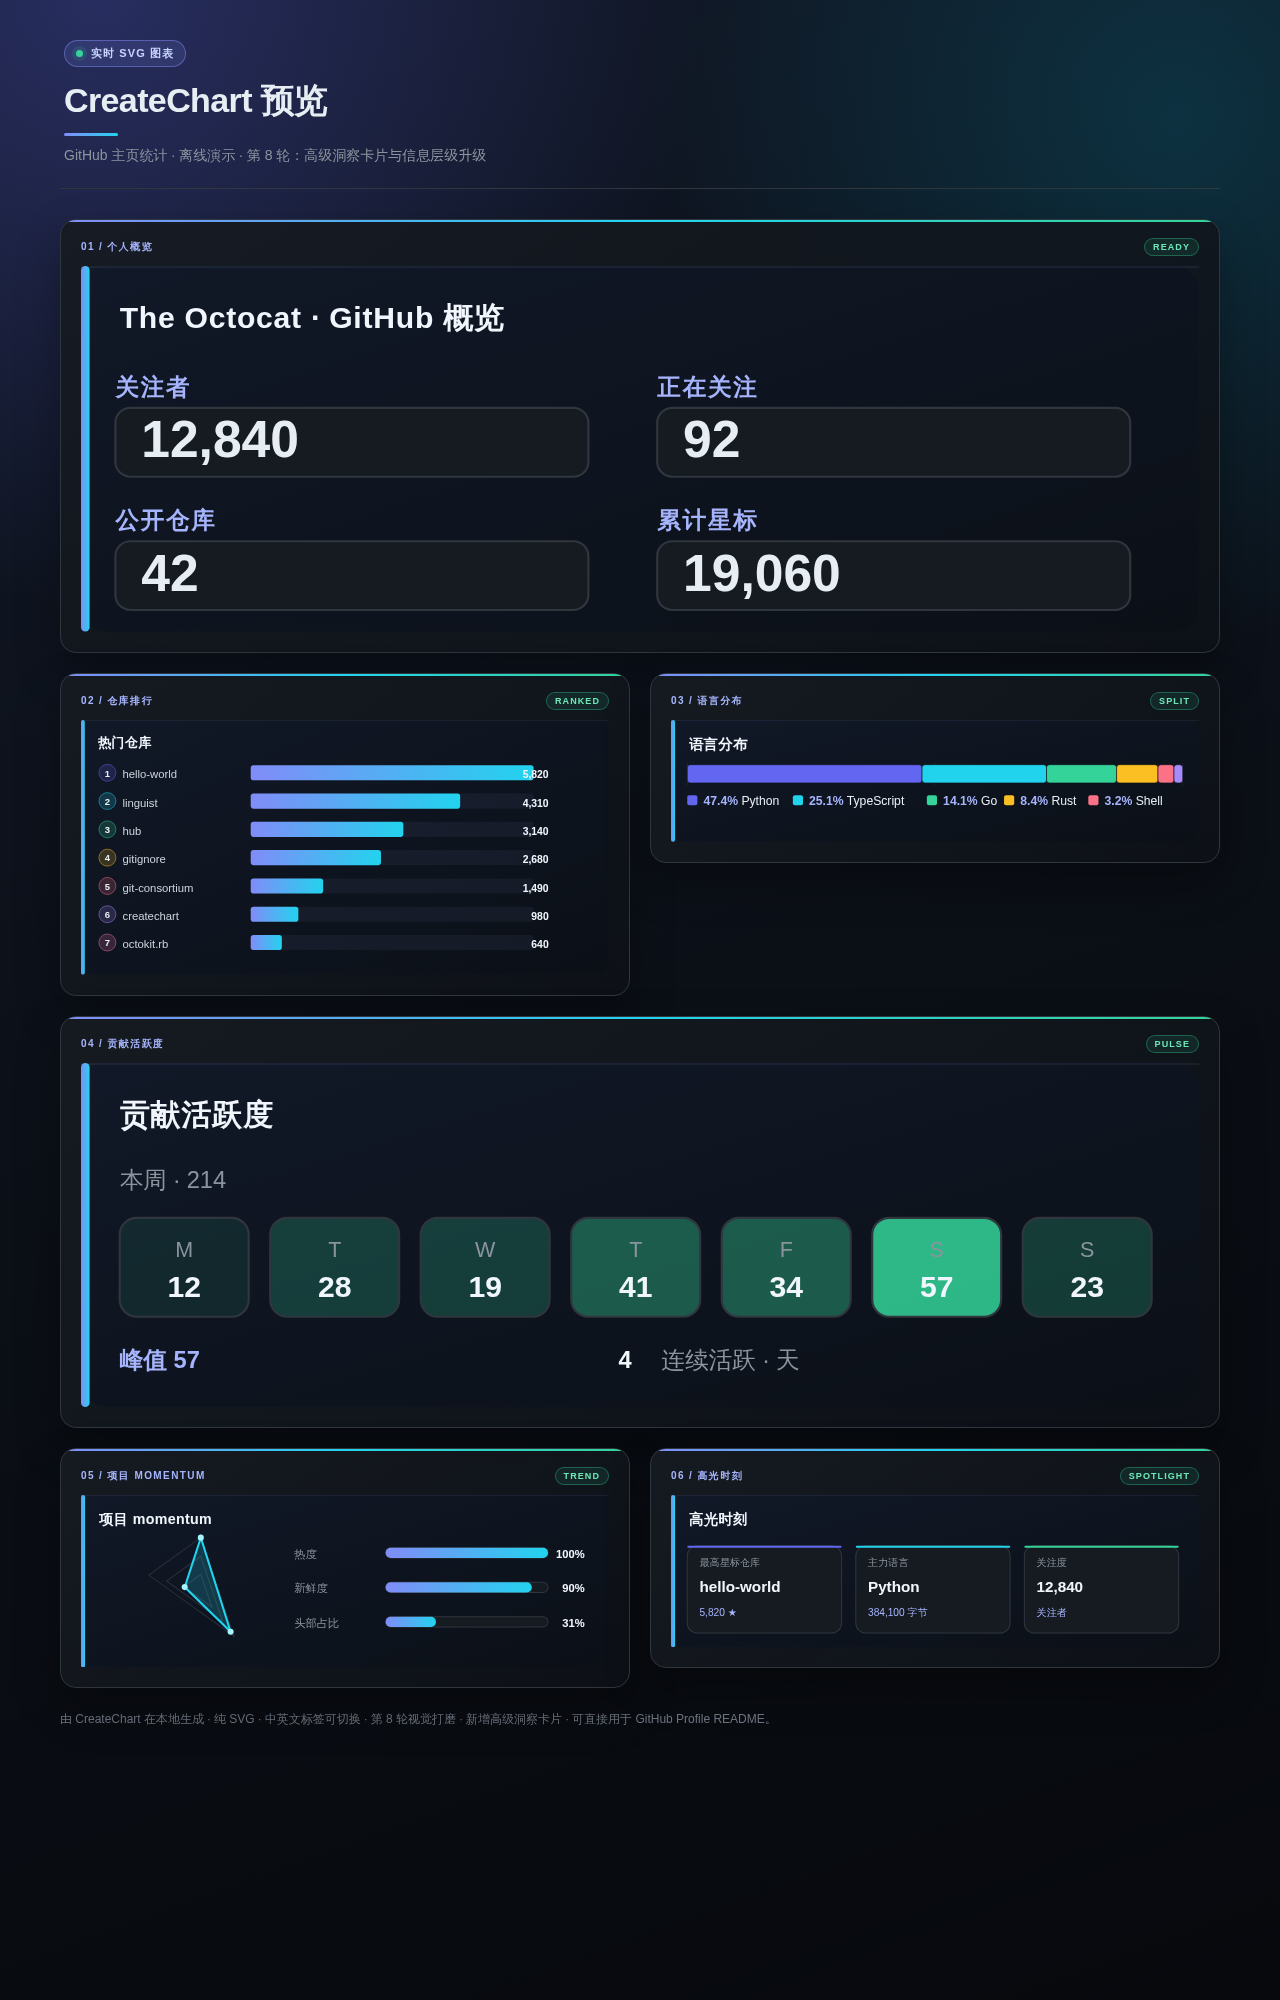
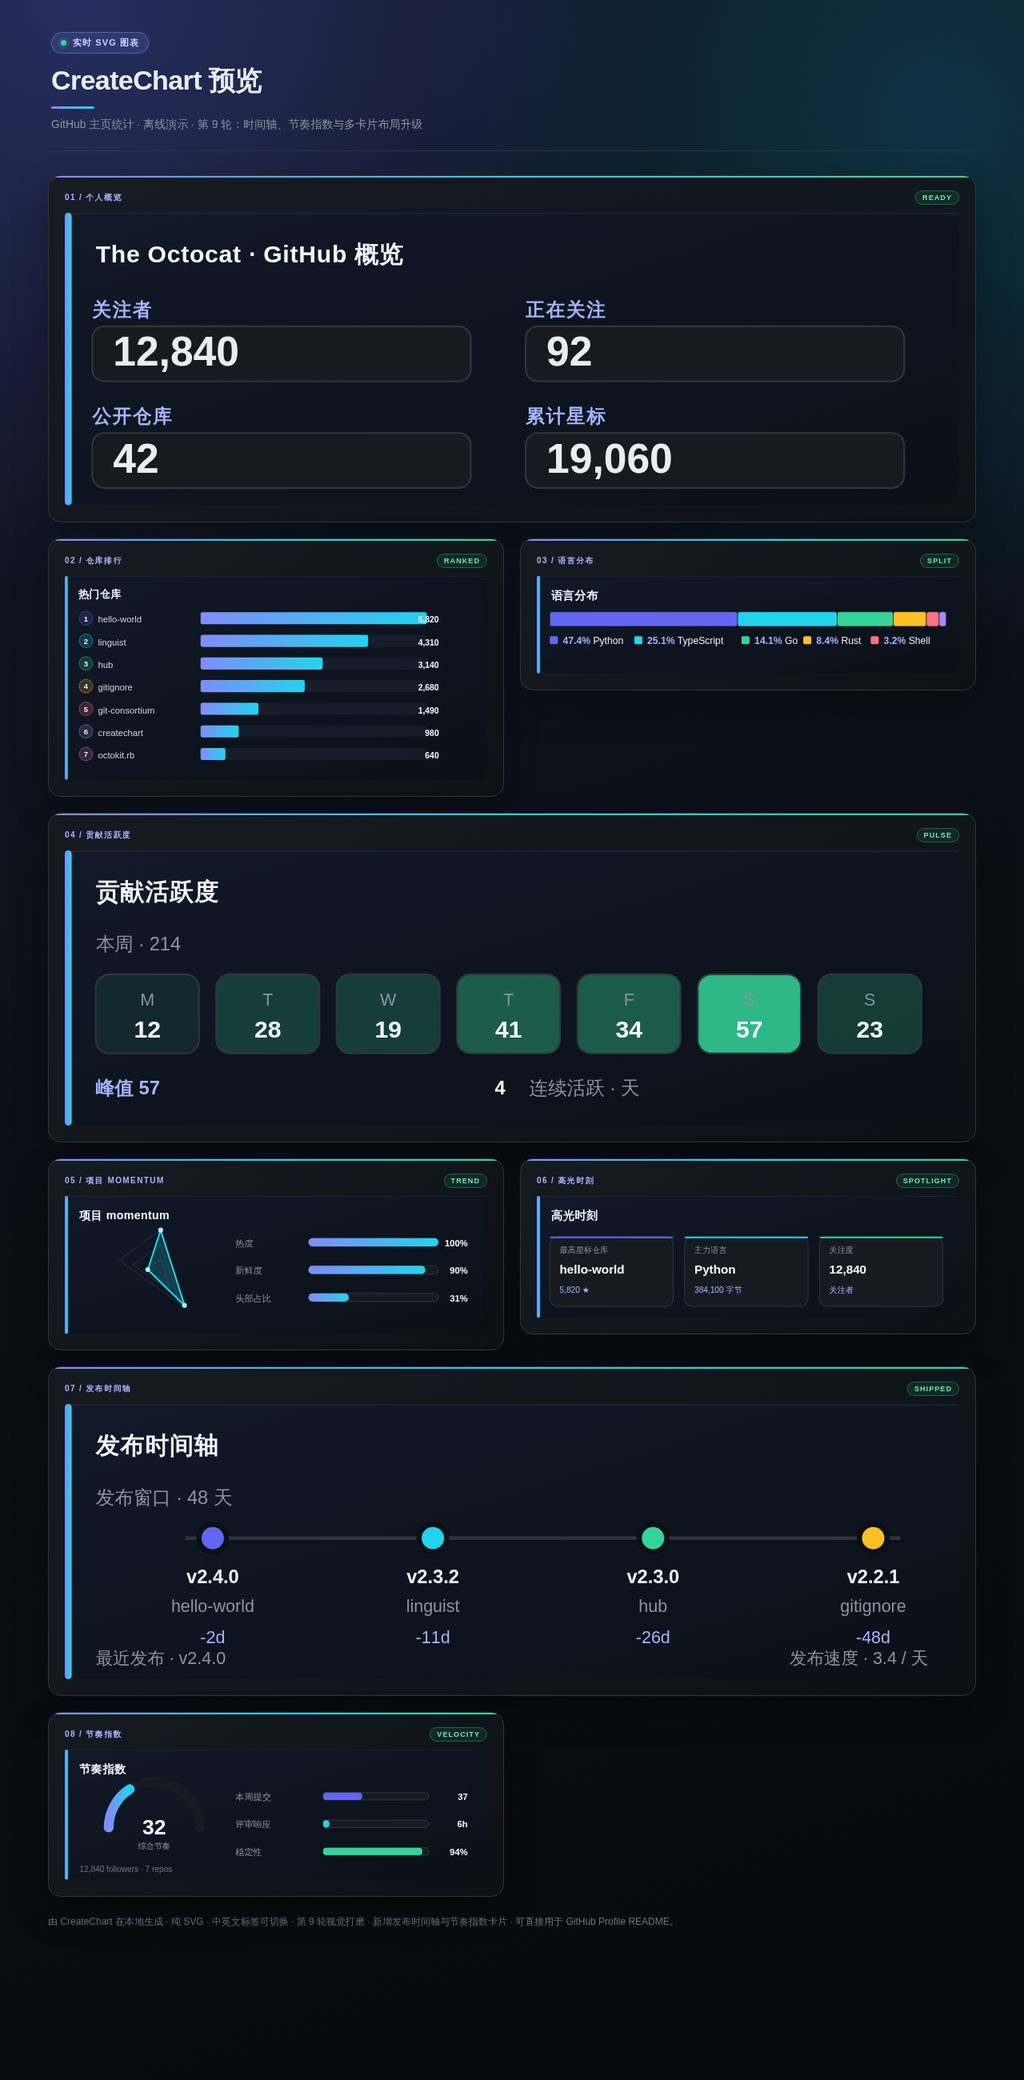
feat(charts): 新增发布时间轴与节奏指数卡片

diff --git a/createchart/charts.py b/createchart/charts.py
@@ -26,11 +26,11 @@ LANGUAGE_LABELS = {
         "preview_title": "CreateChart · 预览",
         "preview_eyebrow": "实时 SVG 图表",
         "preview_heading": "CreateChart 预览",
-        "preview_subtitle": "GitHub 主页统计 · 离线演示 · 第 8 轮：高级洞察卡片与信息层级升级",
+        "preview_subtitle": "GitHub 主页统计 · 离线演示 · 第 9 轮：时间轴、节奏指数与多卡片布局升级",
         "profile_section": "01 / 个人概览",
         "repos_section": "02 / 仓库排行",
         "languages_section": "03 / 语言分布",
-        "preview_footer": "由 CreateChart 在本地生成 · 纯 SVG · 中英文标签可切换 · 第 8 轮视觉打磨 · 新增高级洞察卡片 · 可直接用于 GitHub Profile README。",
+        "preview_footer": "由 CreateChart 在本地生成 · 纯 SVG · 中英文标签可切换 · 第 9 轮视觉打磨 · 新增发布时间轴与节奏指数卡片 · 可直接用于 GitHub Profile README。",
         "activity_title": "贡献活跃度",
         "activity_section": "04 / 贡献活跃度",
         "activity_peak": "峰值",
@@ -47,6 +47,17 @@ LANGUAGE_LABELS = {
         "highlight_dominant": "主力语言",
         "highlight_profile": "关注度",
         "days": "天",
+        "release_title": "发布时间轴",
+        "release_section": "07 / 发布时间轴",
+        "release_latest": "最近发布",
+        "release_window": "发布窗口",
+        "release_velocity": "发布速度",
+        "cadence_title": "节奏指数",
+        "cadence_section": "08 / 节奏指数",
+        "cadence_week": "本周提交",
+        "cadence_review": "评审响应",
+        "cadence_stability": "稳定性",
+        "cadence_score": "综合节奏",
     },
     "en": {
         "profile_title": "GitHub overview",
@@ -62,11 +73,11 @@ LANGUAGE_LABELS = {
         "preview_title": "CreateChart · Preview",
         "preview_eyebrow": "Live SVG charts",
         "preview_heading": "CreateChart preview",
-        "preview_subtitle": "GitHub profile statistics · offline demo · eighth pass with advanced insight cards and clearer hierarchy",
+        "preview_subtitle": "GitHub profile statistics · offline demo · ninth pass with release timeline, cadence index, and richer card layout",
         "profile_section": "01 / Profile",
         "repos_section": "02 / Repositories",
         "languages_section": "03 / Languages",
-        "preview_footer": "Generated locally by CreateChart · pure SVG · switchable zh/en labels · eighth polish pass with advanced insight cards · ready for GitHub Profile README.",
+        "preview_footer": "Generated locally by CreateChart · pure SVG · switchable zh/en labels · ninth polish pass with release timeline and cadence index cards · ready for GitHub Profile README.",
         "activity_title": "Contribution activity",
         "activity_section": "04 / Activity",
         "activity_peak": "Peak",
@@ -83,6 +94,17 @@ LANGUAGE_LABELS = {
         "highlight_dominant": "Dominant language",
         "highlight_profile": "Attention",
         "days": "days",
+        "release_title": "Release timeline",
+        "release_section": "07 / Releases",
+        "release_latest": "Latest",
+        "release_window": "Window",
+        "release_velocity": "Velocity",
+        "cadence_title": "Cadence index",
+        "cadence_section": "08 / Cadence",
+        "cadence_week": "Commits this week",
+        "cadence_review": "Review response",
+        "cadence_stability": "Stability",
+        "cadence_score": "Cadence score",
     },
 }
 
@@ -323,6 +345,59 @@ def highlight_cards(user: Dict[str, object], repos: List[Dict[str, object]], lan
     return _svg_footer(parts)
 
 
+def release_timeline(repos: List[Dict[str, object]], lang: str = DEFAULT_LANG) -> str:
+    """Build a playful release timeline card derived from repository order."""
+    top = sorted(repos, key=lambda repo: int(repo.get("stargazers_count") or 0), reverse=True)[:4]
+    versions = ["v2.4.0", "v2.3.2", "v2.3.0", "v2.2.1"]
+    days_ago = [2, 11, 26, 48]
+    parts = _svg_header(t("release_title", lang), 520, 160)
+    parts.append(f'<text x="18" y="58" fill="#8b949e" font-family="-apple-system, BlinkMacSystemFont, Segoe UI, sans-serif" font-size="11">{escape(t("release_window", lang))} · 48 {escape(t("days", lang))}</text>')
+    parts.append('<line x1="70" y1="78" x2="486" y2="78" stroke="#30363d" stroke-width="2"/>')
+    for idx in range(4):
+        x = 86 + idx * 128
+        color = PALETTE[idx % len(PALETTE)]
+        parts.append(f'<circle cx="{x}" cy="78" r="8" fill="{color}" stroke="#0b1017" stroke-width="3"/>')
+        repo_name = str(top[idx].get("name", "-"))[:15] if idx < len(top) else "-"
+        parts.append(f'<text x="{x}" y="104" text-anchor="middle" fill="#e6edf3" font-family="-apple-system, BlinkMacSystemFont, Segoe UI, sans-serif" font-size="11" font-weight="700">{escape(versions[idx])}</text>')
+        parts.append(f'<text x="{x}" y="121" text-anchor="middle" fill="#8b949e" font-family="-apple-system, BlinkMacSystemFont, Segoe UI, sans-serif" font-size="10">{escape(repo_name)}</text>')
+        parts.append(f'<text x="{x}" y="139" text-anchor="middle" fill="#a5b4fc" font-family="-apple-system, BlinkMacSystemFont, Segoe UI, sans-serif" font-size="10">-{days_ago[idx]}d</text>')
+    parts.append(f'<text x="18" y="151" fill="#8b949e" font-family="-apple-system, BlinkMacSystemFont, Segoe UI, sans-serif" font-size="10">{escape(t("release_latest", lang))} · {escape(versions[0])}</text>')
+    parts.append(f'<text x="502" y="151" text-anchor="end" fill="#8b949e" font-family="-apple-system, BlinkMacSystemFont, Segoe UI, sans-serif" font-size="10">{escape(t("release_velocity", lang))} · 3.4 / {escape(t("days", lang))}</text>')
+    return _svg_footer(parts)
+
+
+def cadence_index(user: Dict[str, object], repos: List[Dict[str, object]], lang: str = DEFAULT_LANG) -> str:
+    """Build a gauge-like cadence card with three derived engineering signals."""
+    commits = 37
+    review_hours = 6
+    stability = 94
+    followers = int(user.get("followers") or 0)
+    score = min(99, round(commits * 0.8 + review_hours * 1.4 + stability * 0.28) // 2)
+    parts = _svg_header(t("cadence_title", lang), 520, 160)
+    cx, cy, radius = 110, 96, 56
+    import math
+    start, end = math.pi, 2 * math.pi
+    parts.append(f'<path d="M {cx + radius * math.cos(start):.2f} {cy + radius * math.sin(start):.2f} A {radius} {radius} 0 0 1 {cx + radius * math.cos(end):.2f} {cy + radius * math.sin(end):.2f}" fill="none" stroke="#161b22" stroke-width="12" stroke-linecap="round"/>')
+    angle = start + (end - start) * min(1, score / 100)
+    parts.append(f'<path d="M {cx + radius * math.cos(start):.2f} {cy + radius * math.sin(start):.2f} A {radius} {radius} 0 0 1 {cx + radius * math.cos(angle):.2f} {cy + radius * math.sin(angle):.2f}" fill="none" stroke="url(#accent)" stroke-width="12" stroke-linecap="round"/>')
+    parts.append(f'<text x="{cx}" y="{cy + 8}" text-anchor="middle" fill="#f0f6fc" font-family="-apple-system, BlinkMacSystemFont, Segoe UI, sans-serif" font-size="26" font-weight="700" font-variant-numeric="tabular-nums">{score}</text>')
+    parts.append(f'<text x="{cx}" y="{cy + 26}" text-anchor="middle" fill="#8b949e" font-family="-apple-system, BlinkMacSystemFont, Segoe UI, sans-serif" font-size="10">{escape(t("cadence_score", lang))}</text>')
+    metrics = [
+        (t("cadence_week", lang), commits, ""),
+        (t("cadence_review", lang), review_hours, "h"),
+        (t("cadence_stability", lang), stability, "%"),
+    ]
+    for idx, (label, value, suffix) in enumerate(metrics):
+        y = 62 + idx * 34
+        parts.append(f'<text x="210" y="{y}" fill="#8b949e" font-family="-apple-system, BlinkMacSystemFont, Segoe UI, sans-serif" font-size="11">{escape(label)}</text>')
+        parts.append(f'<rect x="318" y="{y - 9}" width="130" height="9" rx="4" fill="#161b22" stroke="#30363d"/>')
+        ratio = min(100, value if value <= 100 else min(100, value * 2))
+        parts.append(f'<rect x="318" y="{y - 9}" width="{ratio * 1.3:.2f}" height="9" rx="4" fill="{PALETTE[idx]}"/>')
+        parts.append(f'<text x="496" y="{y}" text-anchor="end" fill="#f0f6fc" font-family="-apple-system, BlinkMacSystemFont, Segoe UI, sans-serif" font-size="11" font-weight="700" font-variant-numeric="tabular-nums">{value}{suffix}</text>')
+    parts.append(f'<text x="18" y="151" fill="#6e7681" font-family="-apple-system, BlinkMacSystemFont, Segoe UI, sans-serif" font-size="10">{followers:,} followers · {len(repos)} repos</text>')
+    return _svg_footer(parts)
+
+
 def aggregate_languages(repos: Iterable[Dict[str, object]], languages_by_repo: Dict[str, Dict[str, int]]) -> Dict[str, int]:
     """Sum language bytes across repositories."""
     total: Counter[str] = Counter()
@@ -370,6 +445,8 @@ def demo_charts(lang: str = DEFAULT_LANG) -> Dict[str, str]:
         "activity": contribution_activity(lang=lang),
         "momentum": project_momentum(user, repos, lang=lang),
         "highlights": highlight_cards(user, repos, languages, lang=lang),
+        "releases": release_timeline(repos, lang=lang),
+        "cadence": cadence_index(user, repos, lang=lang),
     }
 
 
@@ -465,6 +542,8 @@ def preview_html(charts: Dict[str, str], lang: str = DEFAULT_LANG) -> str:
       {card("activity", "activity_section", "PULSE", wide=True)}
       {card("momentum", "momentum_section", "TREND")}
       {card("highlights", "highlights_section", "SPOTLIGHT")}
+      {card("releases", "release_section", "SHIPPED", wide=True)}
+      {card("cadence", "cadence_section", "VELOCITY")}
     </section>
     <footer>{escape(t("preview_footer", lang))}</footer>
   </main>

diff --git a/createchart/cli.py b/createchart/cli.py
@@ -14,10 +14,12 @@ from .charts import (
     demo_charts,
     highlight_cards,
     language_chart,
+    cadence_index,
     preview_html,
     profile_summary,
     project_momentum,
     repo_bars,
+    release_timeline,
 )
 from .github_client import GitHubClient
 
@@ -45,9 +47,9 @@ def main(argv: list[str] | None = None) -> int:
             (output / f"{name}.svg").write_text(svg, encoding="utf-8")
         if args.preview_html:
             (output / "preview.html").write_text(preview_html(charts, lang=args.lang), encoding="utf-8")
-            print(f"Wrote 6 demo charts and preview.html to {output.resolve()}")
+            print(f"Wrote 8 demo charts and preview.html to {output.resolve()}")
         else:
-            print(f"Wrote 6 demo charts to {output.resolve()}")
+            print(f"Wrote 8 demo charts to {output.resolve()}")
         return 0
 
     if not args.username:
@@ -83,8 +85,10 @@ def main(argv: list[str] | None = None) -> int:
     (output / "activity.svg").write_text(contribution_activity(lang=args.lang), encoding="utf-8")
     (output / "momentum.svg").write_text(project_momentum(user, repos, lang=args.lang), encoding="utf-8")
     (output / "highlights.svg").write_text(highlight_cards(user, repos, languages, lang=args.lang), encoding="utf-8")
+    (output / "releases.svg").write_text(release_timeline(repos, lang=args.lang), encoding="utf-8")
+    (output / "cadence.svg").write_text(cadence_index(user, repos, lang=args.lang), encoding="utf-8")
 
-    print(f"Wrote 6 charts to {output.resolve()}")
+    print(f"Wrote 8 charts to {output.resolve()}")
     return 0
 
 

diff --git a/tests/test_charts.py b/tests/test_charts.py
@@ -41,7 +41,7 @@ def test_demo_charts_returns_six_svg_files():
     from createchart.charts import demo_charts
 
     charts = demo_charts()
-    assert set(charts) == {"profile", "repos", "languages", "activity", "momentum", "highlights"}
+    assert set(charts) == {"profile", "repos", "languages", "activity", "momentum", "highlights", "releases", "cadence"}
     assert all(svg.startswith("<svg") and svg.endswith("</svg>") for svg in charts.values())
 
 
@@ -69,8 +69,8 @@ def test_english_labels_remain_default():
 
 def test_preview_polish_rounds_are_visible():
     html = preview_html(demo_charts(lang="zh"), lang="zh")
-    assert "第 8 轮" in html
-    assert "第 8 轮视觉打磨" in html
+    assert "第 9 轮" in html
+    assert "第 9 轮视觉打磨" in html
     assert "累计星标" in html
     assert "rgba(129, 140, 248, .78)" in html
 
@@ -103,6 +103,17 @@ def test_advanced_cards_are_rendered():
     assert "项目 momentum" in charts["momentum"]
     assert "高光时刻" in charts["highlights"]
     assert "peak" not in charts["activity"].lower()
+
+
+def test_preview_includes_new_round_nine_cards():
+    charts = demo_charts(lang="zh")
+    html = preview_html(charts, lang="zh")
+    assert "发布时间轴" in charts["releases"]
+    assert "节奏指数" in charts["cadence"]
+    assert "SHIPPED" in html
+    assert "VELOCITY" in html
+    assert "07 / 发布时间轴" in html
+    assert "08 / 节奏指数" in html
 
 
 def test_preview_includes_all_sections():

diff --git a/README.md b/README.md
@@ -7,13 +7,13 @@ Generate SVG statistical charts for GitHub profiles and repositories. Ready to d
 - Profile overview card: followers, following, public repos, total stars
 - Top repositories bar chart by stars/forks/any numeric repo field
 - Language distribution stacked bar chart
-- Advanced cards: contribution activity heatmap, project momentum radar, and highlights card
+- Advanced cards: contribution activity heatmap, project momentum radar, highlights, release timeline, and cadence index
 - Pure SVG output — no JavaScript, works in any GitHub README
 - Polished cards with contrast labels, rank badges, legend percentages, and value emphasis
 - Offline demo mode for previewing charts without GitHub API calls
 - Chinese and English labels via `--lang zh` / `--lang en`
 - Refined typography, spacing, card hover states, status badges and title dividers
-- Eight focused visual polish rounds with advanced insight cards and zh/en preview copy updates
+- Nine focused visual polish rounds with advanced insight cards, release and cadence views, and zh/en preview copy updates
 
 ## Install
 
@@ -36,6 +36,8 @@ Generated files:
 - `charts/activity.svg`
 - `charts/momentum.svg`
 - `charts/highlights.svg`
+- `charts/releases.svg`
+- `charts/cadence.svg`
 
 Embed in your profile README:
 
@@ -51,7 +53,7 @@ createchart octocat --repo-languages
 
 ## Preview
 
-Run the offline demo to generate six sample charts and a standalone preview page:
+Run the offline demo to generate eight sample charts and a standalone preview page:
 
 ```bash
 createchart --demo --preview-html -o charts
